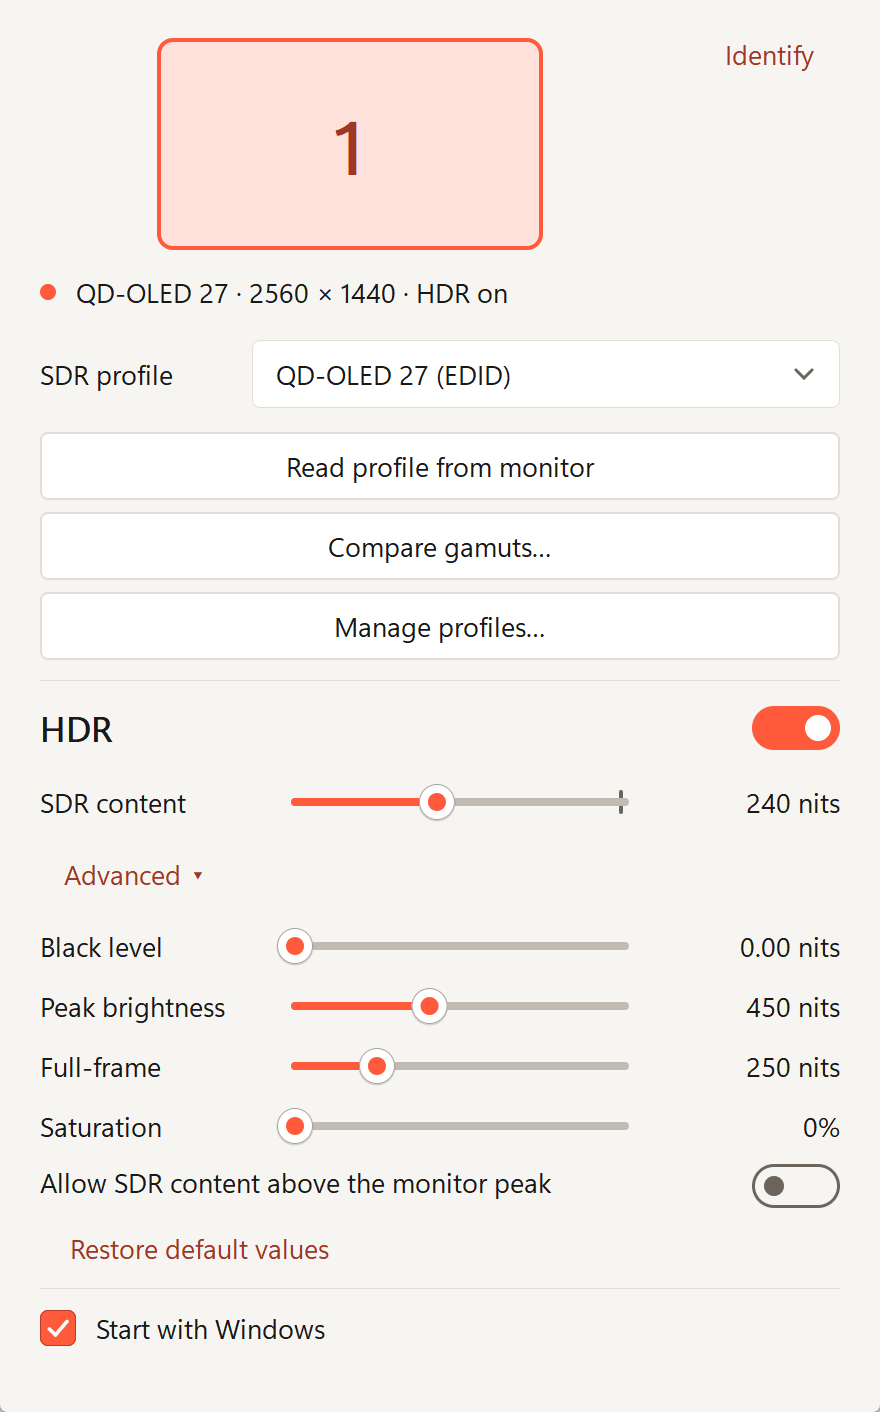
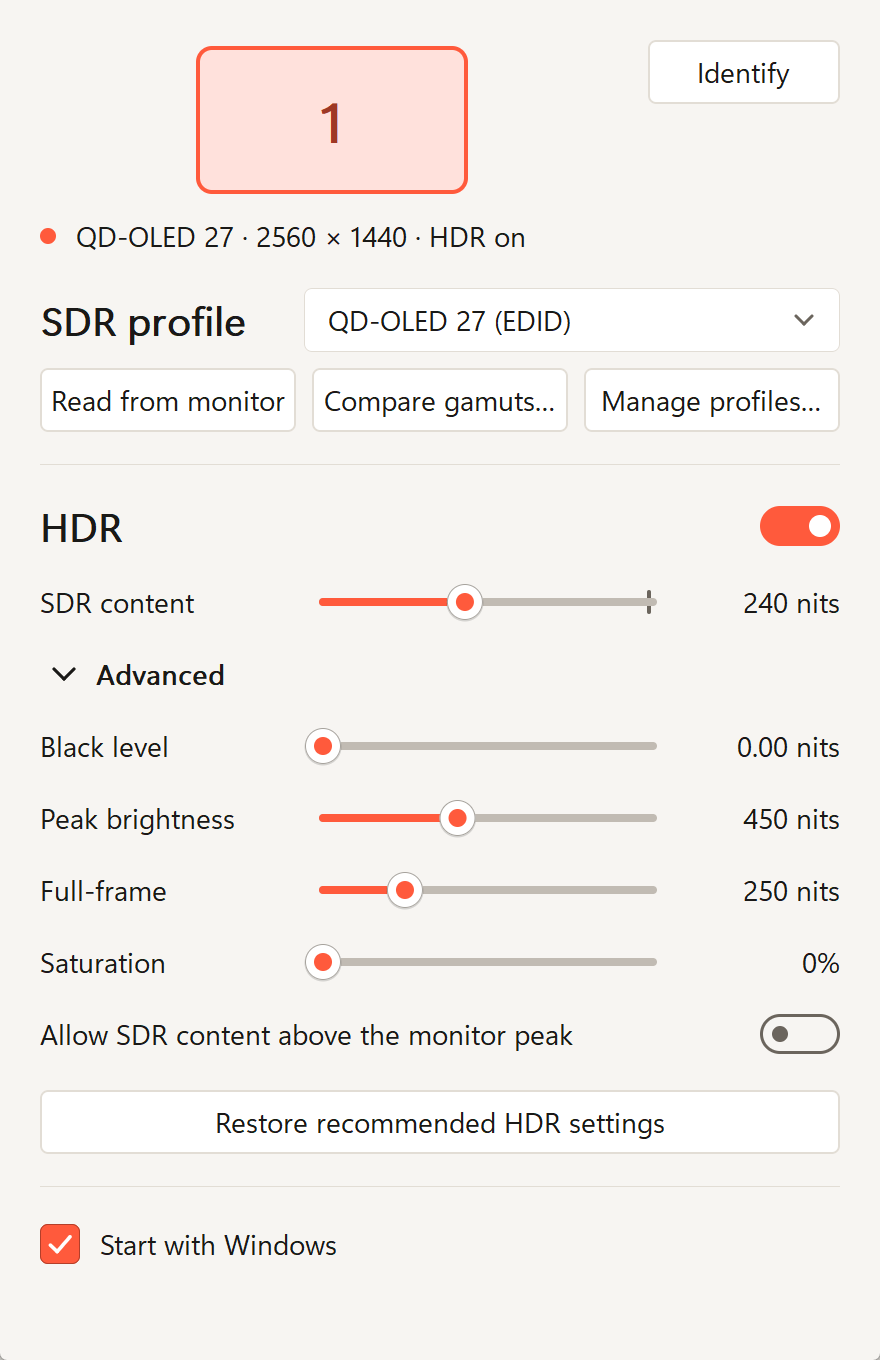
Site: photographer-facing copy, HDR charts side by side, mobile hero label

diff --git a/site/index.html b/site/index.html
@@ -5,6 +5,7 @@
   <meta name="viewport" content="width=device-width, initial-scale=1" />
   <title>Spectrum: monitor color profiles for Windows</title>
   <meta name="description" content="Windows tray utility that builds an ICC profile from your monitor's EDID, writes MHC2 profiles for HDR and re-applies them after driver updates." />
+  <meta name="author" content="Andrea Torti" />
   <meta name="color-scheme" content="dark light" />
   <meta name="theme-color" content="#121110" media="(prefers-color-scheme: dark)" />
   <meta name="theme-color" content="#F2EEE7" media="(prefers-color-scheme: light)" />
@@ -82,15 +83,14 @@
     </section>
 
     <!-- 4. Main window -->
-    <section id="window" class="section win" aria-labelledby="h-window">
+    <section id="window" class="section win" aria-label="Main window">
       <spectral></spectral>
       <div class="wrap">
-        <h2 id="h-window" data-reveal>One window, every monitor.</h2>
         <div class="win-stage">
           <figure class="slab slab-main" data-slab data-max-tilt="9">
             <div class="slab-sway">
               <div class="slab-tilt">
-                <shot name="main" strip="Spectrum" alt-light="Spectrum main window, light theme. A map of the connected monitors, an SDR profile dropdown, Read profile from monitor, Compare gamuts… and Manage profiles… buttons, an HDR toggle with five sliders, and a Start with Windows checkbox." alt-dark="Spectrum main window, dark theme. A map of the connected monitors, an SDR profile dropdown, Read profile from monitor, Compare gamuts… and Manage profiles… buttons, an HDR toggle with five sliders, and a Start with Windows checkbox." sizes="(min-width: 900px) 480px, 92vw"></shot>
+                <shot name="main" strip="Spectrum" alt-light="Spectrum main window, light theme. A map of the connected monitors, an SDR profile dropdown, Read from monitor, Compare gamuts… and Manage profiles… buttons, an HDR toggle with five sliders, and a Start with Windows checkbox." alt-dark="Spectrum main window, dark theme. A map of the connected monitors, an SDR profile dropdown, Read from monitor, Compare gamuts… and Manage profiles… buttons, an HDR toggle with five sliders, and a Start with Windows checkbox." sizes="(min-width: 900px) 480px, 92vw"></shot>
                 <i class="slab-spec"></i>
                 <i class="slab-edge"></i>
                 <!--callouts-->
@@ -101,7 +101,7 @@
           <ol class="callout-list">
             <li><span class="callout-n">1</span>Identify shows each monitor's number on its screen</li>
             <li><span class="callout-n">2</span>The SDR profile applies on selection</li>
-            <li><span class="callout-n">3</span>HDR sliders write an MHC2 profile on release</li>
+            <li><span class="callout-n">3</span>HDR changes apply when you let go of a slider</li>
           </ol>
         </div>
       </div>
@@ -111,8 +111,7 @@
     <section id="hdr" class="section hdr" aria-labelledby="h-hdr">
       <spectral></spectral>
       <div class="wrap">
-        <p class="kicker">HDR · MHC2</p>
-        <h2 id="h-hdr" data-reveal>Tune HDR with four sliders.</h2>
+        <h2 id="h-hdr" data-reveal>HDR tuning, done right.</h2>
         <div class="hdr-grid needs-js">
           <div class="hdr-controls" role="group" aria-label="HDR sliders">
             <div class="ctl" data-ctl="black">
@@ -139,18 +138,15 @@
               </div>
               <canvas id="hdr-pq" role="img" aria-label="Line chart of the PQ response from 0 to 10,000 nits, with the reference curve dashed and your display's curve clipped at peak brightness."></canvas>
             </figure>
-            <div class="chart-row">
-              <figure class="chart chart-gamut">
+            <figure class="chart chart-gamut">
                 <div class="chart-head"><span class="label">Gamut</span>
                   <ul class="legend"><li><i class="lg lg-709"></i>BT.709</li><li><i class="lg lg-2020"></i>BT.2020</li><li><i class="lg lg-res"></i>Result</li></ul>
                 </div>
                 <canvas id="hdr-gamut" role="img" aria-label="CIE 1931 xy diagram with the BT.709 triangle growing toward BT.2020 as saturation rises."></canvas>
-              </figure>
-              <p class="caption">Same MHC2 layout as the Windows HDR Calibration app.</p>
-            </div>
+            </figure>
           </div>
         </div>
-        <noscript><shot name="hdr" alt-light="Spectrum main window, light theme, HDR section: a toggle and five sliders for black level, peak brightness, full-frame, saturation and SDR content." alt-dark="Spectrum main window, dark theme, HDR section: a toggle and five sliders for black level, peak brightness, full-frame, saturation and SDR content." sizes="440px"></shot><p class="caption">Same MHC2 layout as the Windows HDR Calibration app.</p></noscript>
+        <noscript><shot name="hdr" alt-light="Spectrum main window, light theme, HDR section: a toggle and five sliders for black level, peak brightness, full-frame, saturation and SDR content." alt-dark="Spectrum main window, dark theme, HDR section: a toggle and five sliders for black level, peak brightness, full-frame, saturation and SDR content." sizes="440px"></shot></noscript>
       </div>
     </section>
 
@@ -158,7 +154,7 @@
     <section id="gamut" class="section gamut" aria-labelledby="h-gamut">
       <spectral></spectral>
       <div class="wrap">
-        <p class="kicker">Gamut · CIE 1931 xy</p>
+        <p class="kicker">Gamut</p>
         <h2 id="h-gamut" data-reveal>Compare gamuts against reference spaces.</h2>
         <div class="gamut-grid">
           <ul class="spec-list" aria-label="Reference spaces">
@@ -184,8 +180,8 @@
     <section id="tray" class="section tray" aria-labelledby="h-tray">
       <spectral></spectral>
       <div class="wrap">
-        <h2 id="h-tray" data-reveal>Switch profiles from the tray.</h2>
-        <p class="caption">Left-click toggles the main window.</p>
+        <h2 id="h-tray" data-reveal>Monitor color profile switching, just one click away.</h2>
+        <p class="caption">Spectrum lives in your system tray.</p>
       </div>
       <div class="taskbar" data-tray>
         <div class="taskbar-inner">
@@ -212,6 +208,7 @@
   <footer class="footer" id="footer">
     <spectral></spectral>
     <div class="wrap footer-inner">
+      <span>© 2026 Andrea Torti</span>
       <a href="%LICENSE%">MIT license</a>
       <a href="%REPO%">GitHub</a>
       <p>Built with Win32, GDI and a stubborn refusal to ship Electron.</p>

diff --git a/site/src/modules/cieCanvas.ts b/site/src/modules/cieCanvas.ts
@@ -324,18 +324,32 @@ export class CieDiagram {
     const { ctx } = this;
     ctx.save();
     ctx.textAlign = "right";
-    const x = this.visibleW - 10;
     const narrow = this.visibleW < 560;
-    const y = (narrow ? this.Y(0.84) : this.Y(0.115));
+    // Narrow screens: keep the label inside the plot's empty top-right corner, on a plate so gridlines don't
+    // run through the text. Wide screens: below the locus, past the plot's right edge.
+    const x = narrow ? Math.min(this.visibleW - 10, this.X(XMAX) - 8) : this.visibleW - 10;
+    const y = narrow ? this.Y(0.86) : this.Y(0.115);
+    const titleFont = `500 ${narrow ? 13 : 15}px "IBM Plex Mono", ui-monospace, Consolas, monospace`;
+    const subFont = `400 ${narrow ? 11 : 12}px "IBM Plex Mono", ui-monospace, Consolas, monospace`;
+    const gap = narrow ? 17 : 20;
     for (const l of this.labels) {
       if (l.alpha <= 0.01) continue;
+      if (narrow) {
+        ctx.font = titleFont;
+        let w = ctx.measureText(l.title).width;
+        ctx.font = subFont;
+        w = Math.max(w, ctx.measureText(l.sub).width);
+        ctx.globalAlpha = 1;
+        ctx.fillStyle = p.bg;
+        ctx.fillRect(x - w - 6, y - 15, w + 12, gap + 21);
+      }
       ctx.globalAlpha = l.alpha;
       ctx.fillStyle = p.ink;
-      ctx.font = `500 ${narrow ? 13 : 15}px "IBM Plex Mono", ui-monospace, Consolas, monospace`;
+      ctx.font = titleFont;
       ctx.fillText(l.title, x, y);
       ctx.fillStyle = p.dim;
-      ctx.font = `400 ${narrow ? 11 : 12}px "IBM Plex Mono", ui-monospace, Consolas, monospace`;
-      ctx.fillText(l.sub, x, y + (narrow ? 17 : 20));
+      ctx.font = subFont;
+      ctx.fillText(l.sub, x, y + gap);
     }
     ctx.restore();
   }

diff --git a/site/src/modules/hero.ts b/site/src/modules/hero.ts
@@ -33,7 +33,8 @@ export function initHero() {
     diagram.tris = [{ prims: lerpPrims(states[i]!.prims, states[(i + 1) % n]!.prims, e), color: "ink", width: 1.5, white: true }];
     diagram.labels = states.map((s, j) => {
       const d = Math.abs(pos - j);
-      return { title: s.name, sub: sub[j]!, alpha: Math.max(0, 1 - Math.min(d, n - d)) };
+      // Fade out fully before the next label fades in, so two labels never overlap mid-morph.
+      return { title: s.name, sub: sub[j]!, alpha: Math.max(0, 1 - 2 * Math.min(d, n - d)) };
     });
     diagram.requestDraw();
   };
@@ -44,10 +45,10 @@ export function initHero() {
   }
   render(0);
 
-  // Autoplay, same on every screen size: hold each gamut 2.4 s, morph 0.9 s; the last morph returns to the first
+  // Autoplay, same on every screen size: hold each gamut 1.6 s, morph 0.7 s; the last morph returns to the first
   // gamut. Plays only while the diagram is in view and the tab is visible. No scroll pin, no scrub.
-  const HOLD = 2.4;
-  const MORPH = 0.9;
+  const HOLD = 1.6;
+  const MORPH = 0.7;
   const c = { t: 0 };
   const tl = gsap.timeline({ repeat: -1, paused: true, onUpdate: () => render(c.t) });
   states.forEach((_s, i) => tl.to(c, { t: i + 1, duration: MORPH, ease: "none" }, i * (HOLD + MORPH) + HOLD));

diff --git a/site/src/data/hotspots.ts b/site/src/data/hotspots.ts
@@ -1,11 +1,12 @@
 // Measured positions on the screenshots, as fractions of the image (0..1), so they survive a re-capture at
 // a different scale as long as the window layout is the same.
 
-/** Targets of the three callouts on the main window screenshot: Identify link, SDR dropdown, HDR slider. */
+/** Targets of the three callouts on the main window screenshot (440 x 680 logical, Advanced open, HDR on):
+ * Identify button, SDR dropdown, Peak brightness value. */
 export const MAIN_CALLOUTS: ReadonlyArray<{ x: number; y: number }> = [
-  { x: 0.945, y: 0.038 },
-  { x: 0.953, y: 0.265 },
-  { x: 0.976, y: 0.713 },
+  { x: 420 / 440, y: 36 / 680 },
+  { x: 420 / 440, y: 160 / 680 },
+  { x: 420 / 440, y: 409 / 680 },
 ];
 
 /** Plot area of the gamut window screenshot: data (x, y) to fractions of the image. */

diff --git a/site/src/styles/sections.css b/site/src/styles/sections.css
@@ -308,6 +308,8 @@ input[type="range"]:focus-visible {
 .hdr-charts {
   grid-column: 6 / 13;
   display: grid;
+  grid-template-columns: minmax(0, 1.7fr) minmax(0, 1fr);
+  align-items: start;
   gap: 32px;
   padding-left: clamp(0px, 2vw, 32px);
 }
@@ -357,12 +359,6 @@ input[type="range"]:focus-visible {
 .chart-pq canvas {
   width: 100%;
   aspect-ratio: 16 / 8.5;
-}
-.chart-row {
-  display: grid;
-  grid-template-columns: minmax(0, 340px) 1fr;
-  gap: var(--gap);
-  align-items: end;
 }
 .chart-gamut canvas {
   width: 100%;
@@ -655,8 +651,6 @@ input[type="range"]:focus-visible {
   }
   .hdr-charts {
     padding-left: 0;
-  }
-  .chart-row {
     grid-template-columns: 1fr;
   }
   .slab-gamut {

diff --git a/site/build/html.ts b/site/build/html.ts
@@ -75,7 +75,7 @@ function callouts(): string {
   const texts = [
     "Identify shows each monitor's number on its screen",
     "The SDR profile applies on selection",
-    "HDR sliders write an MHC2 profile on release",
+    "HDR changes apply when you let go of a slider",
   ];
   return (
     `<ul class="callouts">` +

diff --git a/.claude/rules/site.md b/.claude/rules/site.md
@@ -34,7 +34,7 @@ Pictures pull the visitor in and text captions them. Copy follows `.claude/rules
 
 - Glass slab (`glassSlab.ts`): pointer-driven 3D tilt (about 9° and 7°), a moving specular highlight (`screen` blend at 14% in dark, `overlay` in light; `--spec-*` tokens), a conic spectral border and a blurred spectral caustic under the slab. The entry scrub (rotation and opacity to flat) runs from "top 95%" to "top 70%", then the slab stays still without a pointer. Reduced motion shows a flat image.
 - Reveal (`reveal.ts`): only H1 and H2 animate. Characters rise and fade in (transform and opacity only); the Archivo `wdth` axis expands per word, because re-shaping variable-font text every frame is what makes long tasks. Only the H1 is split at load, each H2 in an idle callback shortly before it scrolls in. Body text never animates.
-- Hero (`hero.ts`): the gamut triangle autoplays sRGB, Display P3, Adobe RGB, then the monitor, and loops. Each state holds 2.4 s and the morph takes 0.9 s (`power2.inOut` on the vertex lerp, labels crossfade). It runs only while the hero is in view (IntersectionObserver) and the tab is visible. The hero is a normal section: it is not pinned and not scrubbed by scroll, because a pinned page that stops scrolling looks broken. Reduced motion and `?shot=` show the monitor state. The wavelength and axis labels stay fixed (no pointer parallax).
+- Hero (`hero.ts`): the gamut triangle autoplays sRGB, Display P3, Adobe RGB, then the monitor, and loops. Each state holds 1.6 s and the morph takes 0.7 s (`power2.inOut` on the vertex lerp, labels crossfade). It runs only while the hero is in view (IntersectionObserver) and the tab is visible. The hero is a normal section: it is not pinned and not scrubbed by scroll, because a pinned page that stops scrolling looks broken. Reduced motion and `?shot=` show the monitor state. The wavelength and axis labels stay fixed (no pointer parallax).
 - Spectral bar: a canvas computed per pixel from the CIE 1931 table. It is the section divider and the nav progress line.
 - Motion only where it explains something. `prefers-reduced-motion` turns off Lenis and shows static slabs.
 
